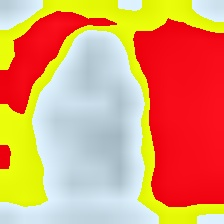
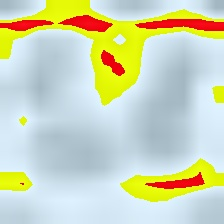
guided feature inversion

diff --git a/guided_feature_inversion_convNN.py b/guided_feature_inversion_convNN.py
@@ -212,7 +212,7 @@ class Vgg19():
 
 if __name__ == '__main__':
     # Get params
-    original_image_dir = "eagle.jpg"
+    original_image_dir = "11.jpg"
     original_image = preprocess_image(original_image_dir)
     gussian_blur = find_gussian_blur(cv2.imread(original_image_dir))
 
@@ -231,29 +231,29 @@ if __name__ == '__main__':
     for c in range(3):
         recreated_im[c] /= reverse_std[c]
         recreated_im[c] -= reverse_mean[c]
-    #recreated_im[recreated_im > 0] = 1
-    #recreated_im[recreated_im < 0] = 0
+    #recreated_im[recreated_im > .5] = 1
+    #recreated_im[recreated_im < .5] = 0
     recreated_im = np.round(recreated_im  * 400)
-
     recreated_im = np.uint8(recreated_im).transpose(1, 2, 0)
-    # Convert RBG to GBR
-    #recreated_im = recreated_im[..., ::-1]
-    #print(torch.squeeze(mask[:,1,:,:], 0))
-    color_map = mpl_color_map.get_cmap('hsv_r')
-    heatmap = color_map(torch.squeeze(mask[:,1,:,:], 0).detach())
 
+    mask_heatmap= copy.copy(mask.data.numpy()[0])
+    #for c in range(3):
+     #   mask_heatmap[c] /= reverse_std[c]
+    #    mask_heatmap[c] -= reverse_mean[c]
+
+    color_map = mpl_color_map.get_cmap('hsv_r')
+    heatmap = color_map(mask_heatmap[0, :,:])
     heatmap[:, :, 3] = 0.5
     heatmap = Image.fromarray((heatmap * 255).astype("uint8"))
+    heatmap.save("generated/heatmap_"+ original_image_dir[:-4]+".png")
 
-    heatmap.save("heatmap.png")
 
-    #mask = torch.squeeze(mask, 0).permute(2, 1, 0).detach().numpy()
 
-    cv2.imwrite('generated/Inv_Image_Layer.jpg', recreated_im)
-    cv2.imwrite("generated/gusblur.jpg", gussian_blur.numpy())
-    cv2.imwrite("generated/inv_image.jpg", recreated_im[:, :, 2])
-    cv2.imwrite("generated/background_mask.jpg", recreate_image(1-mask))
-    cv2.imwrite("generated/inverteddd_image.jpg", new_image_rep.detach().numpy())
+    cv2.imwrite('generated/Inv_Image_Layer_' + original_image_dir, recreated_im)
+    cv2.imwrite("generated/gusblur_"+ original_image_dir, gussian_blur.numpy())
+    cv2.imwrite("generated/inv_image_"+ original_image_dir, recreated_im[:, :, 2])
+    cv2.imwrite("generated/background_mask_" + original_image_dir, recreate_image(1-mask))
+
 
 
 

diff --git a/discriminative_second_algorithm.py b/discriminative_second_algorithm.py
@@ -117,9 +117,9 @@ class Disciminative_vgg19():
 
 if __name__ == '__main__':
     # Get params
-    original_image_dir = "truck.jpg"
+    original_image_dir = "11.jpg"
     original_image = preprocess_image(original_image_dir)
-    target_class = 385
+    target_class = 340
     gussian_blur = find_gussian_blur(cv2.imread(original_image_dir))
 
     final_mask = Disciminative_vgg19()
@@ -140,24 +140,19 @@ if __name__ == '__main__':
     #recreated_im[recreated_im > 0] = 1
     #recreated_im[recreated_im < 0] = 0
     recreated_im = np.round(recreated_im  * 400)
-
     recreated_im = np.uint8(recreated_im).transpose(1, 2, 0)
-    # Convert RBG to GBR
-    #recreated_im = recreated_im[..., ::-1]
-    #print(torch.squeeze(mask[:,1,:,:], 0))
+
+
+    mask_heatmap = copy.copy(mask.data.numpy()[0])
     color_map = mpl_color_map.get_cmap('hsv_r')
-    heatmap = color_map(torch.squeeze(mask[:,1,:,:], 0).detach())
+    heatmap = color_map(mask_heatmap[0, :, :])
     heatmap[:, :, 3] = 0.5
     heatmap = Image.fromarray((heatmap * 255).astype("uint8"))
+    heatmap.save("generated/heatmap_discriminative" + original_image_dir[:-4] + ".png")
 
-    heatmap.save("heatmap2nd.png")
-
-    #mask = torch.squeeze(mask, 0).permute(2, 1, 0).detach().numpy()
-
-    cv2.imwrite('generated/Inv_Image_Layer_2nd.jpg', recreated_im)
-
-    cv2.imwrite("generated/inv_image_2nd.jpg", recreated_im[:, :, 2])
-    cv2.imwrite("generated/background_mask.jpg", recreate_image(1-mask))
+    cv2.imwrite('generated/Inv_Image_Layer_2nd' + original_image_dir, recreated_im)
+    cv2.imwrite("generated/inv_image_2nd" + original_image_dir, recreated_im[:, :, 2])
+    cv2.imwrite("generated/background_mask_2nd" + original_image_dir, recreate_image(1 - mask))
 
 
 
